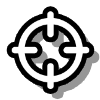
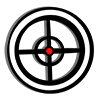
Update Button Img

diff --git a/Roles/Crewmate/Judge.cs b/Roles/Crewmate/Judge.cs
@@ -42,6 +42,7 @@ public static class Judge
     public static void Add(byte playerId)
     {
         playerIdList.Add(playerId);
+        TrialLimit.Add(playerId, TrialLimitPerMeeting.GetInt());
     }
     public static bool IsEnable => playerIdList.Count > 0;
     public static void OnReportDeadBody()
@@ -239,7 +240,7 @@ public static class Judge
             targetBox.name = "ShootButton";
             targetBox.transform.localPosition = new Vector3(-0.95f, 0.03f, -1.3f);
             SpriteRenderer renderer = targetBox.GetComponent<SpriteRenderer>();
-            renderer.sprite = Utils.LoadSprite("TOHE.Resources.Images.Skills.TargetIcon.png", 115f);
+            renderer.sprite = Utils.LoadSprite("TOHE.Resources.Images.Skills.Judge.png", 115f);
             PassiveButton button = targetBox.GetComponent<PassiveButton>();
             button.OnClick.RemoveAllListeners();
             int copiedIndex = i;
